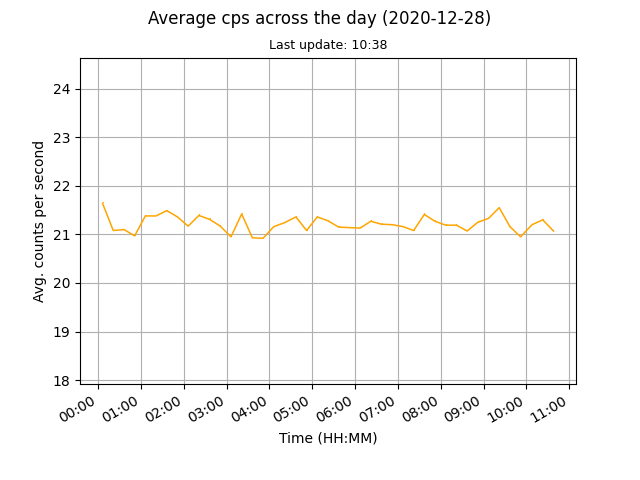
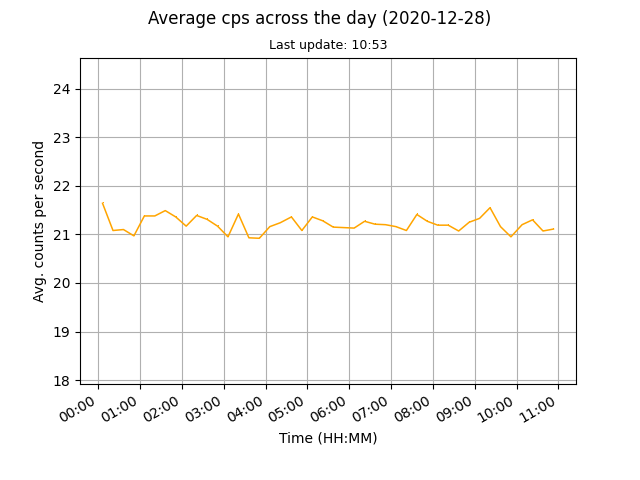
auto data update

Changed region(s): [[0.1562, 0.8125, 0.875, 0.875], [0.2188, 0.4062, 0.875, 0.5], [0.1875, 0.4688, 0.2188, 0.5]]

diff --git a/docs/index.html b/docs/index.html
@@ -45,8 +45,8 @@
 	
 	<br>
 	
-	<p>Current counts per second (cps): 21.07</p>
-	<p>Last update: 2020-12-28, 10:38</p>
+	<p>Current counts per second (cps): 21.11</p>
+	<p>Last update: 2020-12-28, 10:53</p>
 
 	<p><a href="images/monthly.png"><img src="images/monthly.png" alt="Mothly avg cps data"></a><a href="images/daily.png"><img src="images/daily.png" alt="Daily avg cps data"></a></p>
 	
